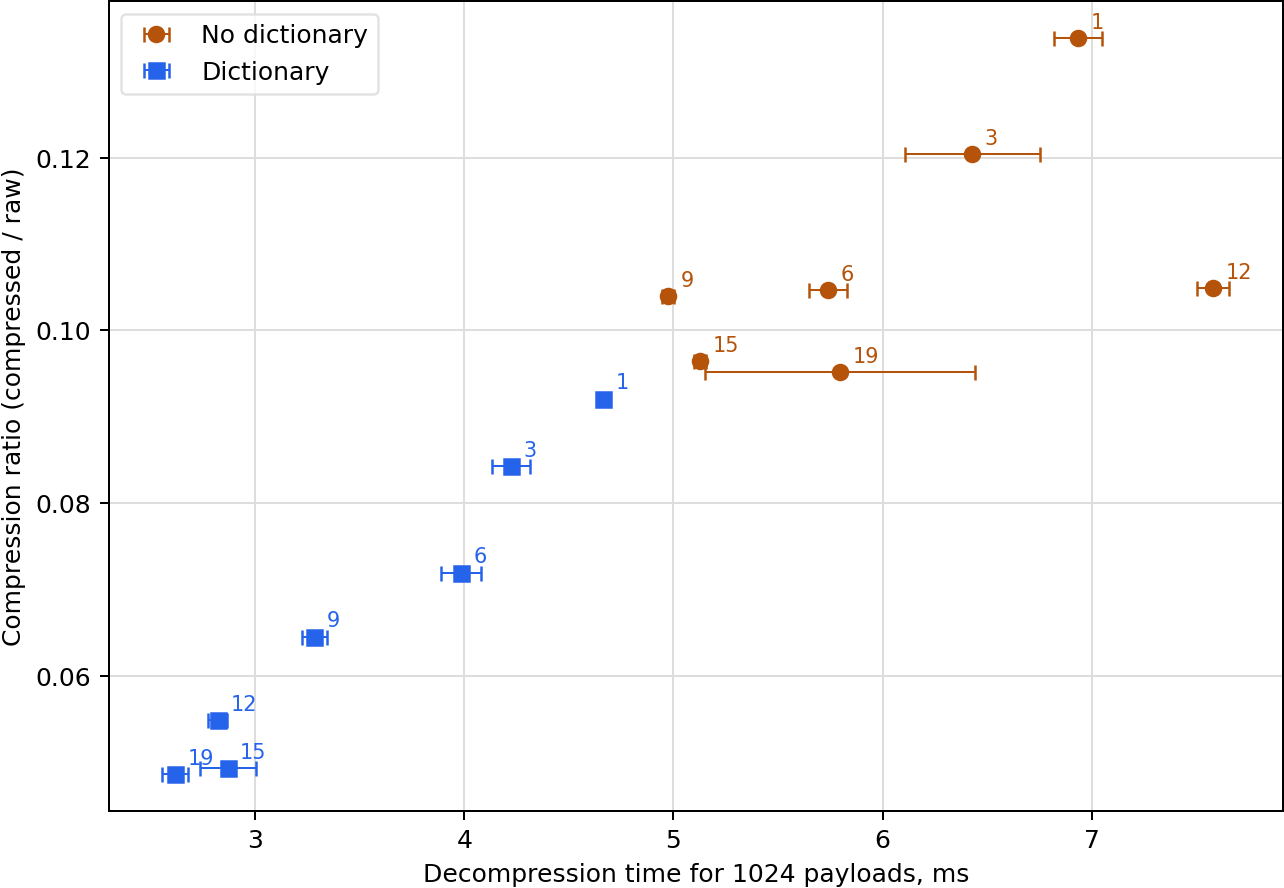
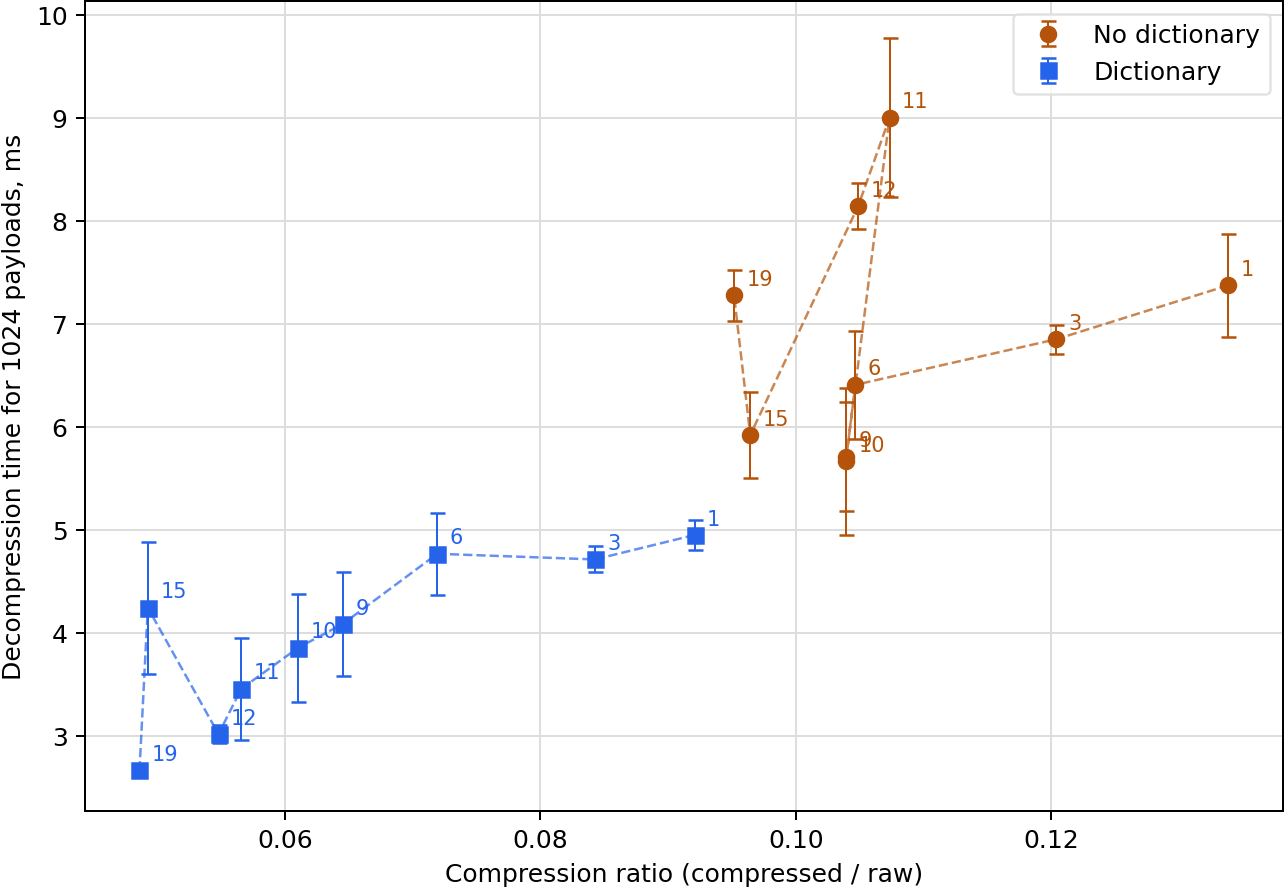
Revise PreparedMol zstd timing plots

diff --git a/scripts/prepared_mol_zstd_timings_plot.py b/scripts/prepared_mol_zstd_timings_plot.py
@@ -38,7 +38,7 @@ def _draw_scatter(
     *,
     time_field: str,
     std_field: str,
-    xlabel: str,
+    ylabel: str,
     output: Path,
 ) -> None:
     from plox import Plox
@@ -58,13 +58,21 @@ def _draw_scatter(
             if not mode_rows:
                 raise SystemExit(f"No {mode!r} rows in timing input")
             levels = [int(row["level"]) for row in mode_rows]
-            x = [float(row[time_field]) * 1_000 for row in mode_rows]
-            xerr = [float(row[std_field]) * 1_000 for row in mode_rows]
-            y = [float(row["compression_ratio"]) for row in mode_rows]
+            x = [float(row["compression_ratio"]) for row in mode_rows]
+            y = [float(row[time_field]) * 1_000 for row in mode_rows]
+            yerr = [float(row[std_field]) * 1_000 for row in mode_rows]
+            ax.plot(
+                x,
+                y,
+                linestyle="--",
+                linewidth=1.0,
+                color=style["color"],
+                alpha=0.7,
+            )
             ax.errorbar(
                 x,
                 y,
-                xerr=xerr,
+                yerr=yerr,
                 fmt=style["marker"],
                 color=style["color"],
                 ecolor=style["color"],
@@ -83,8 +91,8 @@ def _draw_scatter(
                     color=style["color"],
                 )
 
-        ax.set_xlabel(xlabel)
-        ax.set_ylabel("Compression ratio (compressed / raw)")
+        ax.set_xlabel("Compression ratio (compressed / raw)")
+        ax.set_ylabel(ylabel)
         ax.grid(color="#dddddd", linewidth=0.8)
         ax.set_axisbelow(True)
         ax.legend(frameon=True, edgecolor="#dddddd")
@@ -131,14 +139,14 @@ def main(argv: list[str]) -> int:
         rows,
         time_field="compression_mean_s",
         std_field="compression_std_s",
-        xlabel=f"Compression time for {sample_count} payloads, ms",
+        ylabel=f"Compression time for {sample_count} payloads, ms",
         output=compression_output,
     )
     _draw_scatter(
         rows,
         time_field="decompression_mean_s",
         std_field="decompression_std_s",
-        xlabel=f"Decompression time for {sample_count} payloads, ms",
+        ylabel=f"Decompression time for {sample_count} payloads, ms",
         output=decompression_output,
     )
     print(f"Wrote {compression_output}")

diff --git a/scripts/prepared_mol_zstd_timings_measure.py b/scripts/prepared_mol_zstd_timings_measure.py
@@ -21,7 +21,7 @@ from scripts import prepared_mol_zstd_dictionary_generate as generator
 
 
 DEFAULT_OUTPUT = REPO_ROOT / "docs" / "prepared-mol-zstd-timings.tsv"
-DEFAULT_LEVELS = (1, 3, 6, 9, 12, 15, 19)
+DEFAULT_LEVELS = (1, 3, 6, 9, 10, 11, 12, 15, 19)
 DEFAULT_SAMPLE_SEED = 20260531
 
 zstd: Any | None = None